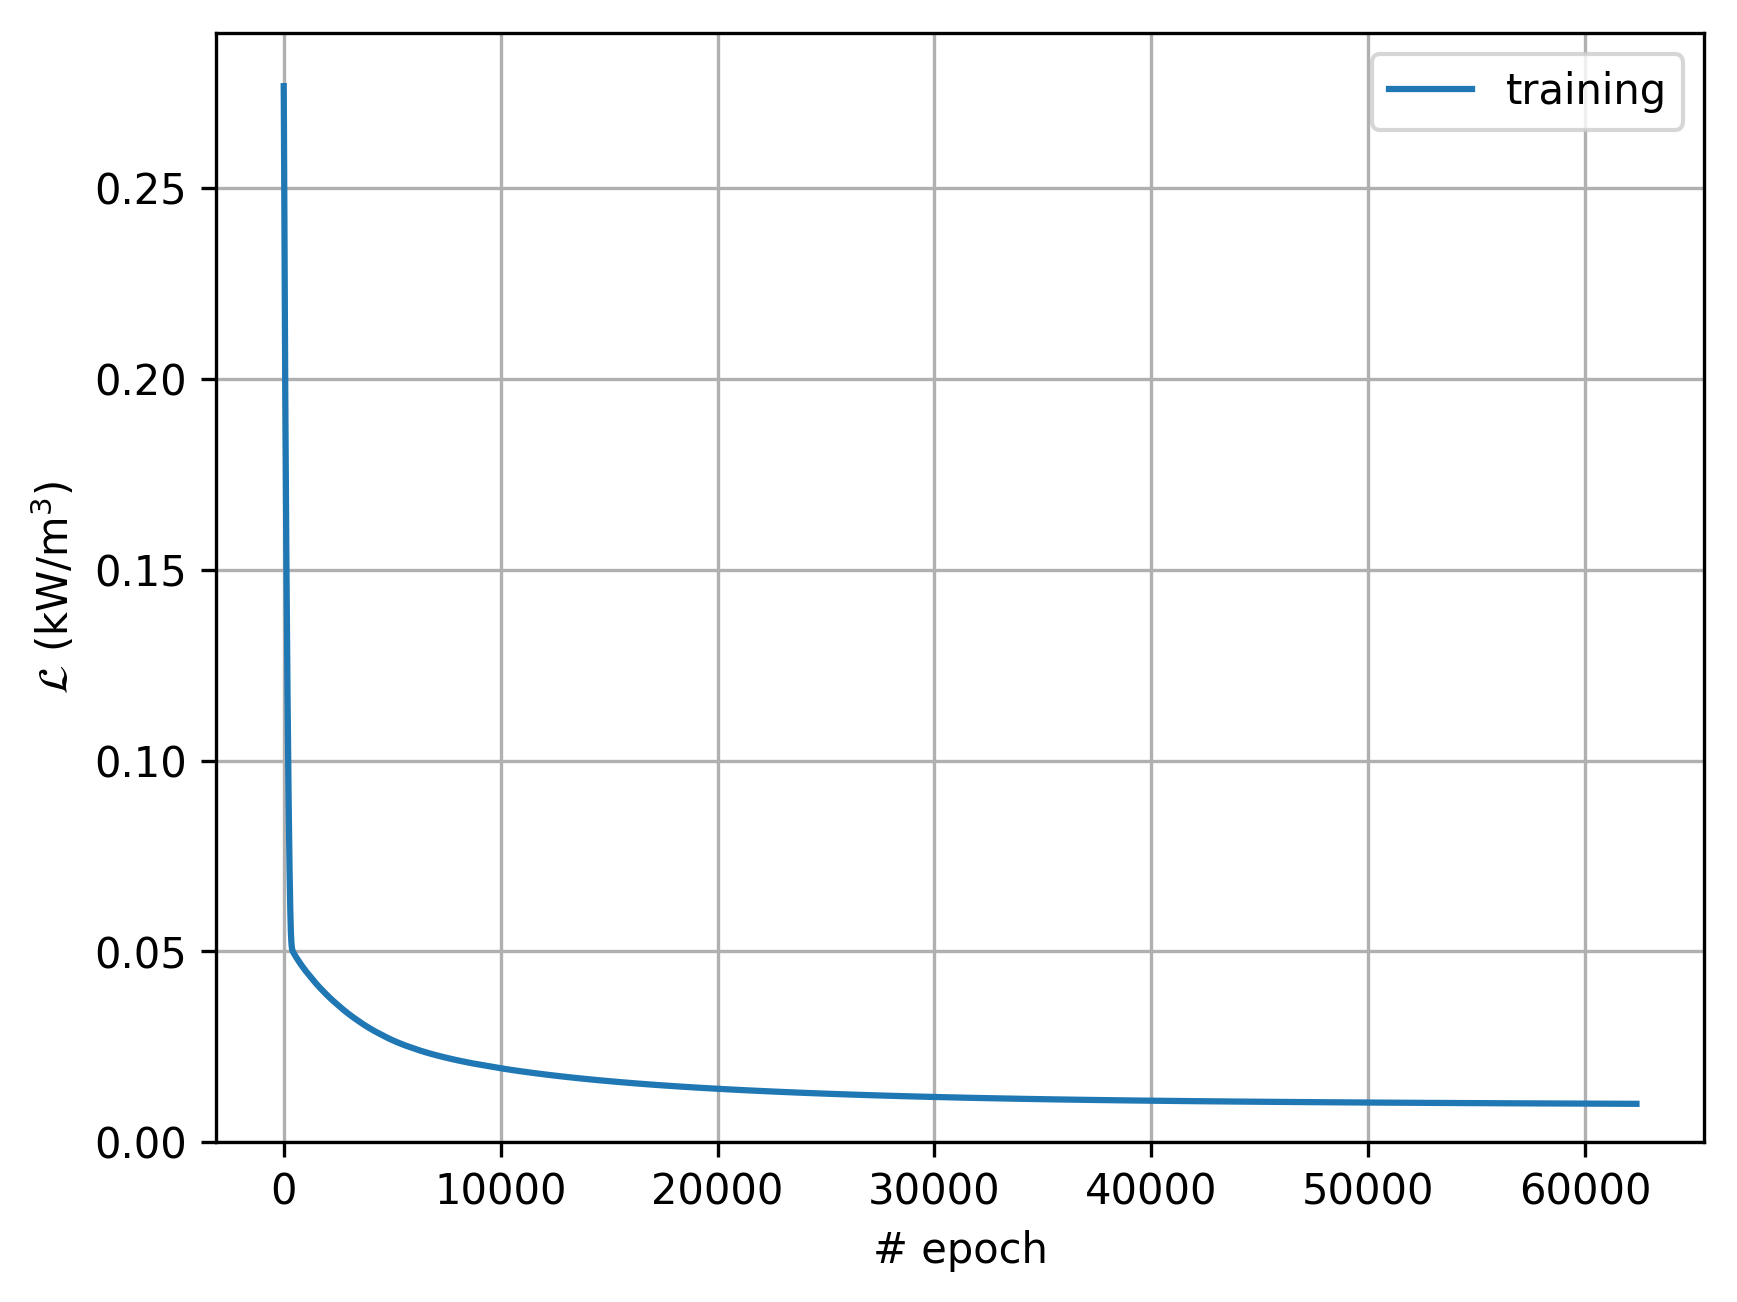
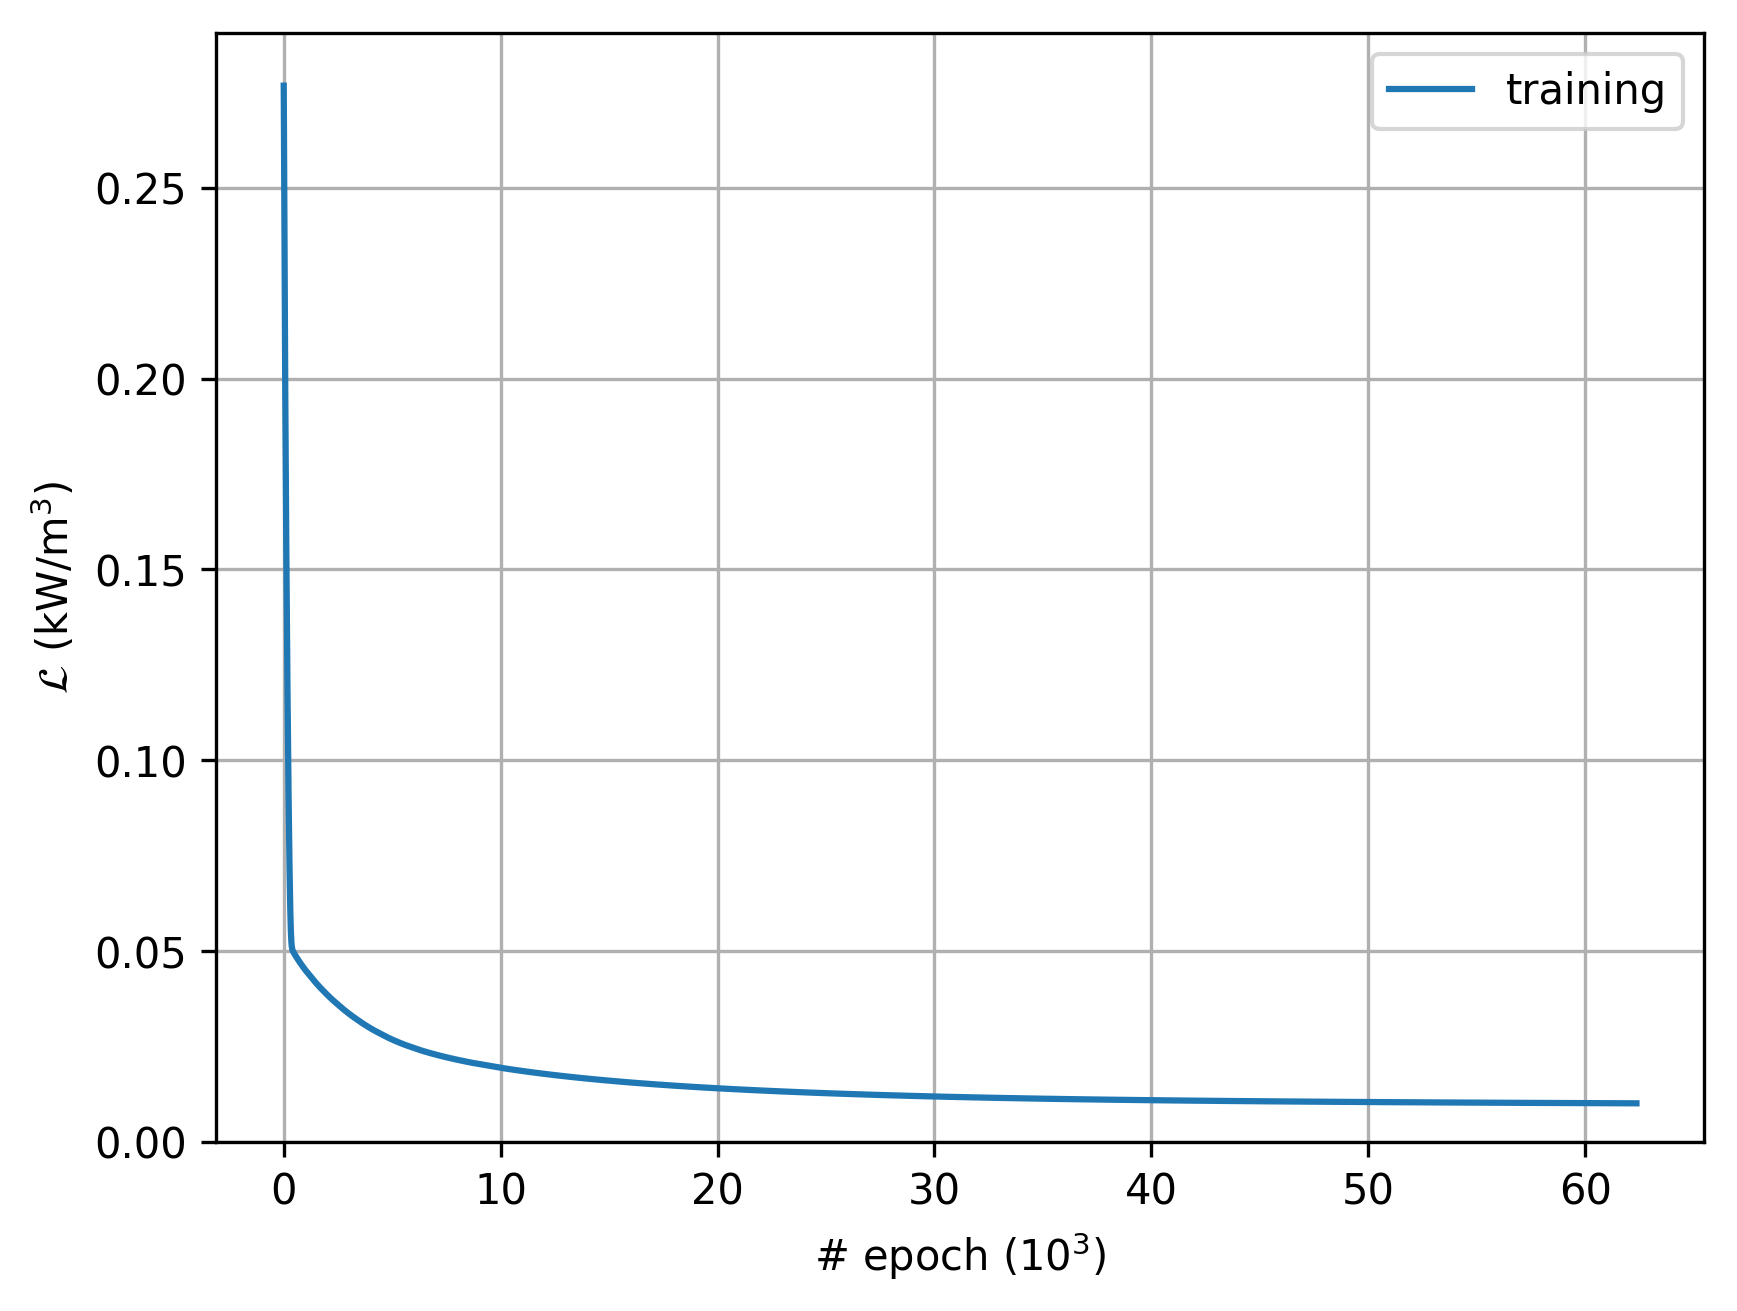
changed COMPASS/M/plot_loss.py

diff --git a/COMPASS/M/plot_loss.py b/COMPASS/M/plot_loss.py
@@ -19,8 +19,8 @@ loss_train = loadtxt[:,1]
 print 'Creating :', save_path + 'loss_log.png'
 
 plt.figure()
-plt.plot(i,loss_train,label = 'training')
-plt.xlabel('# epoch')
+plt.plot(i/1e3,loss_train,label = 'training')
+plt.xlabel('# epoch (10$^3$)')
 plt.ylabel('$\mathcal{L}$ (kW/m$^3$)')
 plt.ylim([0,np.max(loss_train)*1.05])
 plt.grid(True)
